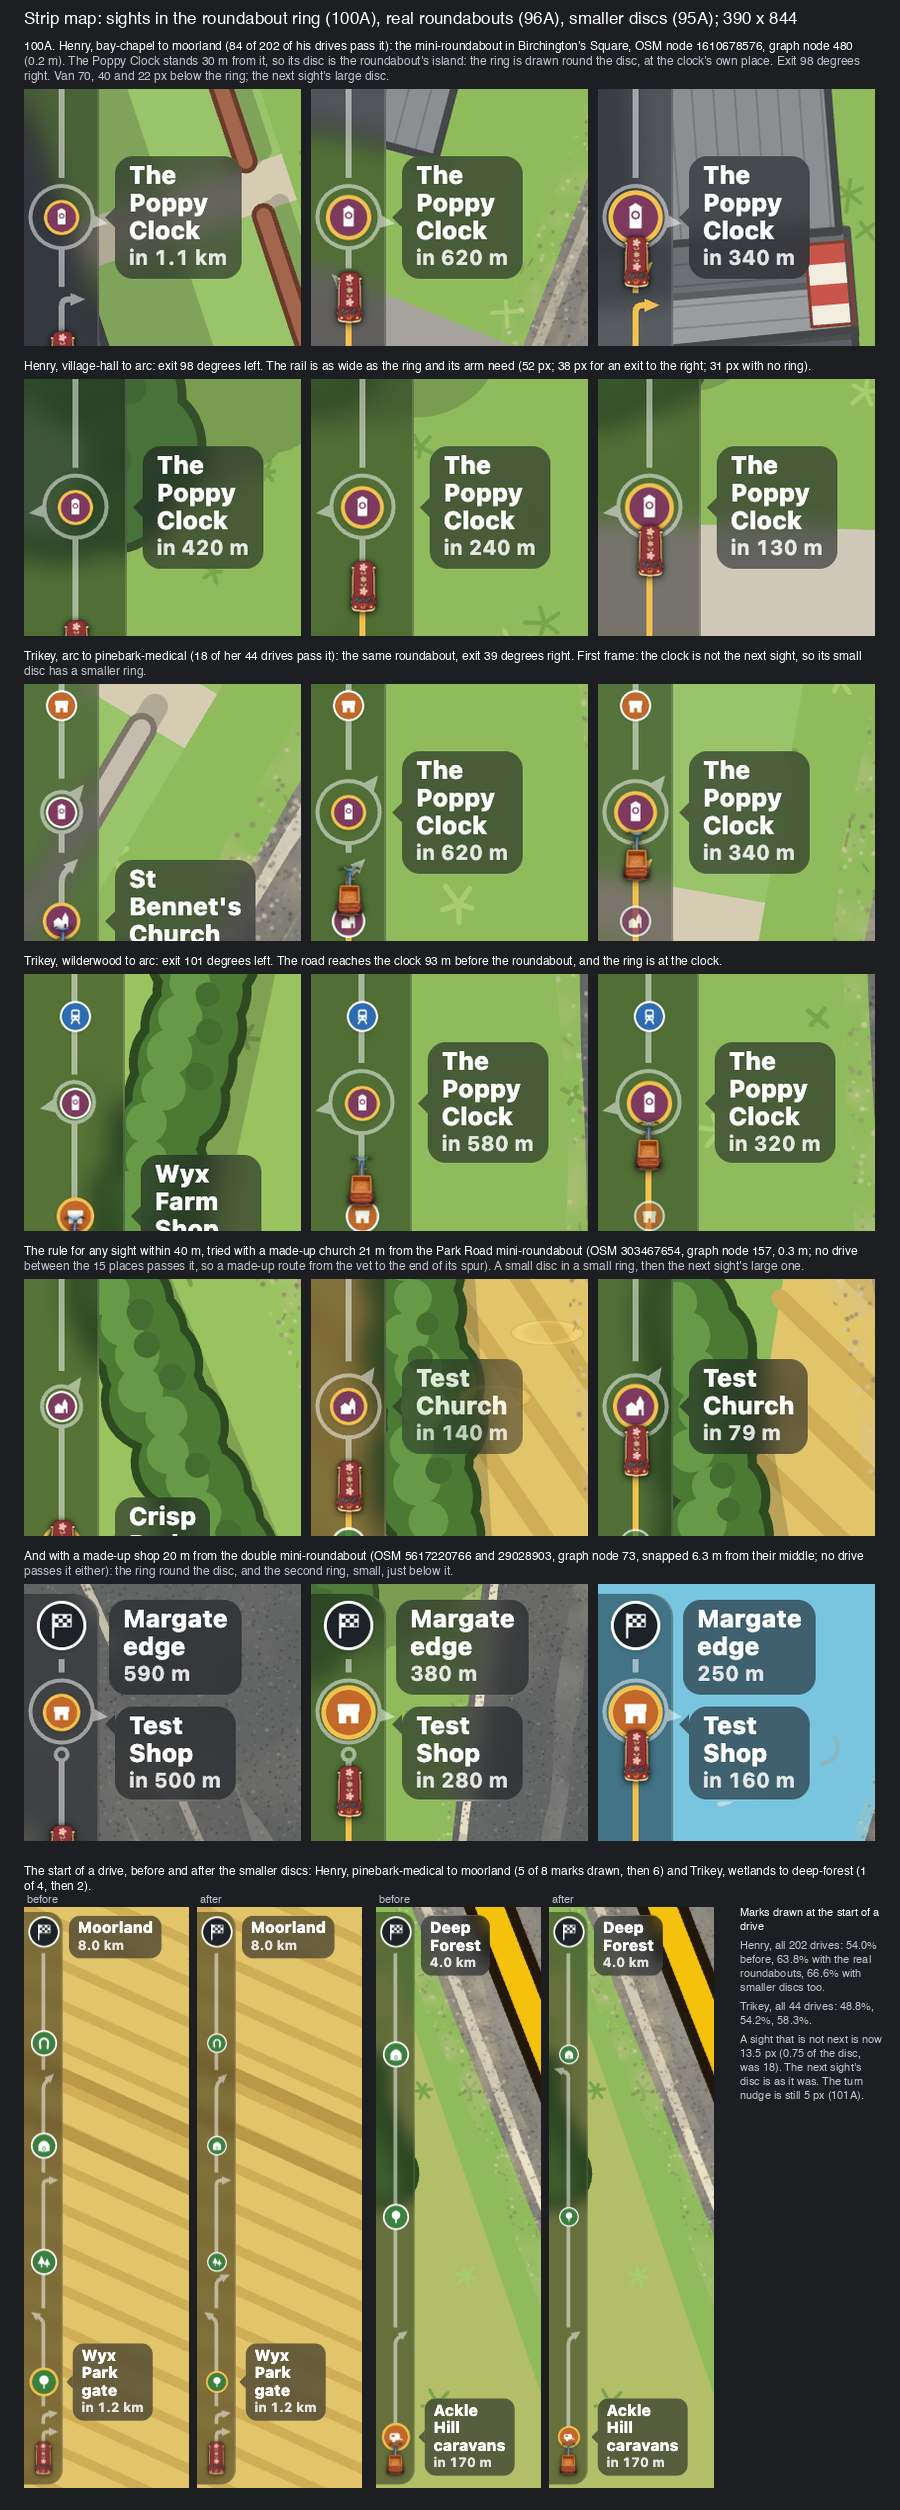
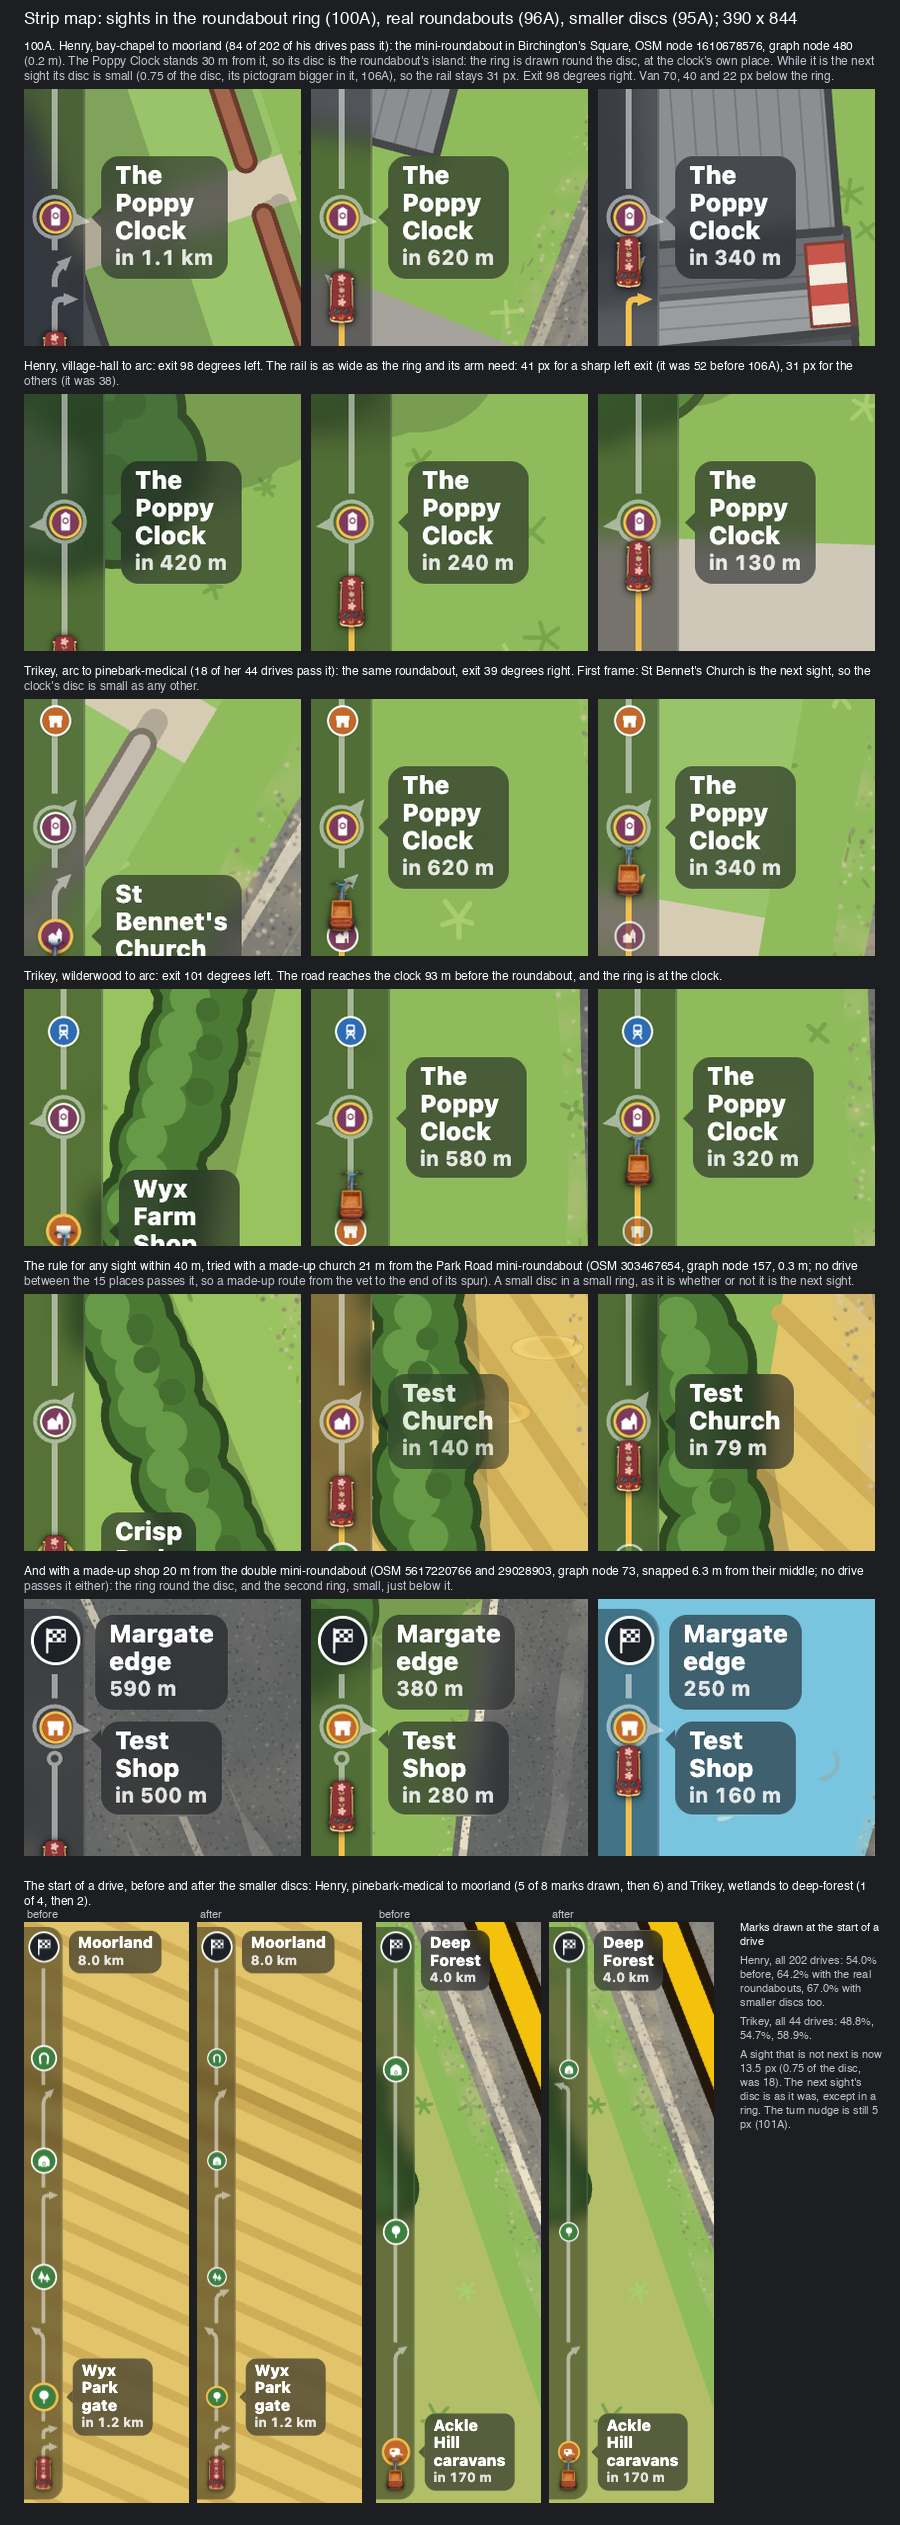
drive spike: the next sight's disc is small while it stands in a roundabout ring, so the rail stays 31 px for a right or straight-on exit and 41 px at most for a sharp left one (106A)
The disc is 0.75 of the disc with its gold ring, its pictogram 0.8 of the
disc so it still reads at 13.5 px, and returns to full size when it has no
ring drawn. Over every drive through The Square the rail is 31 px on 64 of
Henry's 84 and 9 of Trikey's 18, 34 px on 3, and 41 or 40 px on the 17 and 9
with a sharp left exit (it was 38 to 42 and 51 or 52 px). At the start of a
drive 67.0% of Henry's marks and 58.9% of Trikey's are drawn.

diff --git a/apps/game/public/admin/drive-spike/trip-strip.js b/apps/game/public/admin/drive-spike/trip-strip.js
@@ -92,6 +92,8 @@ const SNAP_M = 20;                     // a real roundabout belongs to the graph
 const SAME_SPOT_M = 1.5;               // graph nodes this near the snapped one are the same spot (her graph splits the A28's junctions by side)
 const CORNER_GAP_M = 20;               // junction nodes closer along the route than this are one corner
 const SMALL_DISC = 0.75;               // a sight that is not next is drawn at this share of the disc (95A); the next sight's is 1.25 times the disc
+const RING_GLYPH = 0.8;                // the pictogram's share of a disc in a ring (0.66 elsewhere): the disc is small, and the pictogram still reads
+const RING_NEXT = 0.75;                // the next sight's disc while it stands in a roundabout ring (106A), so the ring and its arm keep the rail narrow
 const DOUBLE_GAP = 1;                  // px (at a line width of 3) between the two rings of a double mini-roundabout
 // A mark may sit a few px off its place on the rail (less than the length of its own arrow) to clear a sight's disc or another mark.
 const NUDGES = [0, 1, -1, 2, -2, 3, -3, 4, -4, 5, -5];
@@ -127,6 +129,7 @@ const CSS = `
 #trip .hMark { transform: scale(var(--small, .75)); }
 #trip .hMark.passed { opacity: .45; transform: scale(.7); }
 #trip .hMark.next { transform: scale(1.25); box-shadow: 0 0 0 2px #f4c04e, 0 1px 4px rgba(0,0,0,.5); }
+#trip .hMark.next.inRing { transform: scale(var(--ringnext, .75)); }
 /* A tag sets one word to a line and the distance on a line of its own below,
    so it is as wide as its longest word and no wider. */
 #trip .hTag { position: absolute; width: max-content; line-height: 1.12; padding: 3px 7px 4px; border-radius: 9px;
@@ -508,12 +511,12 @@ function clearOfDiscs(T, j, y) {
 }
 
 /** The radius of a ring round sight m's disc as it is drawn now (the next
- *  sight's is 1.25 times the disc with a gold ring, a passed one 0.7, any other
- *  SMALL_DISC; the white ring is part of the disc), to the middle of the ring's
- *  stroke and a third of a line width clear of the disc. */
+ *  sight's, in a ring, is RING_NEXT times the disc with a gold ring, 106A, a
+ *  passed one 0.7, any other SMALL_DISC; the white ring is part of the disc), to
+ *  the middle of the ring's stroke and a line width clear of the disc. */
 function ringAround(T, m, state = m === T.railNext ? 'next' : m.state) {
   const G = T.geo, u = G.lw / 3, D = G.disc / 2;
-  const seen = state === 'next' ? (D + 2) * 1.25 : state === 'passed' ? (D + 1.5) * 0.7 : (D + 1.5) * SMALL_DISC;
+  const seen = state === 'next' ? (D + 2) * RING_NEXT : state === 'passed' ? (D + 1.5) * 0.7 : (D + 1.5) * SMALL_DISC;
   return seen + 2 * u;
 }
 
@@ -554,6 +557,7 @@ export function drawRail(T, np) {
   kept.sort((a, b) => b.at - a.at);
   for (const j of J) j.shown = false;
   for (const j of kept) j.shown = true;
+  for (const m of T.marks) if (m.ring) m.el.classList.toggle('inRing', !!m.ring.shown);   // a disc in a drawn ring (106A)
   let line = `M${f(cx)} ${f(G.len)}`, ring = '', head = '';
   for (const j of kept) {
     line += `L${f(cx)} ${f(j.at + j.foot)}${j.shape.line(cx, j.at)}M${f(cx)} ${f(j.at - j.up)}`;
@@ -581,7 +585,7 @@ export function setRoute(T, r) {
   T.marksEl.replaceChildren(...T.marks.map(m => {
     // A pair shares one disc on the strip, as it shares one post.
     m.el = el('div', { class: 'hMark', title: [m, m.also].filter(Boolean).map(b => b.name).join(' and ') },
-      [el('img', { alt: '', src: glyphURL(m.kind) })]);
+      [el('img', { alt: '', src: glyphURL(m.kind, m.ring ? RING_GLYPH : undefined) })]);
     m.state = '';
     return m.el;
   }));
@@ -616,10 +620,10 @@ export function layout(T, g) {
   const S = sizes(g.w, g.h);
   // The rail is also as wide as the biggest ring round a sight's disc needs,
   // with its arm if that leaves to the left (the next sight's disc is the
-  // biggest it will be).
+  // biggest it will be, RING_NEXT of the disc while it stands in a ring).
   for (const j of T.junctions) {
     if (!j.sight) continue;
-    const next = markShape(j, S.lw, (S.disc / 2 + 2) * 1.25 + 2 * S.lw / 3);
+    const next = markShape(j, S.lw, (S.disc / 2 + 2) * RING_NEXT + 2 * S.lw / 3);
     S.w = Math.max(S.w, Math.ceil(2 * (next.left + 2)));
   }
   // Flush with the road view's edge, below the chips, and below the
@@ -668,6 +672,7 @@ export function layout(T, g) {
   T.geo.discNext = S.disc / 2 + 3.5;
   T.geo.discSmall = (S.disc / 2 + 1.5) * SMALL_DISC + 2;
   T.el.style.setProperty('--small', SMALL_DISC);
+  T.el.style.setProperty('--ringnext', RING_NEXT);
   for (const j of T.junctions) {
     j.shape = markShape(j, S.lw);
     j.up = j.shape.up; j.dn = j.shape.dn; j.foot = j.shape.foot;
@@ -721,7 +726,7 @@ export function update(T, u) {
     const passed = u.s >= m.s;
     if (!passed && !next) next = m;
     const state = passed ? 'passed' : m === next ? 'next' : '';
-    if (state !== m.state) { m.el.className = 'hMark ' + state; m.state = state; }
+    if (state !== m.state) { m.el.className = 'hMark ' + state + (m.ring?.shown ? ' inRing' : ''); m.state = state; }
   }
   let np = 0;
   while (np < T.junctions.length && u.s >= T.junctions[np].s) np++;
@@ -792,15 +797,18 @@ const GLYPH_COLOUR = {
 };
 
 const GLYPH_CACHE = new Map();
-/** A kind's pictogram on its disc, as an image URL, painted once at 64 px. */
-function glyphURL(kind) {
-  if (!GLYPH_CACHE.has(kind)) {
+/** A kind's pictogram on its disc, as an image URL, painted once at 64 px.
+ *  share is how much of the disc the pictogram's box takes: 0.66, and 0.8 for a
+ *  disc that is small in a roundabout's ring (106A), so it still reads. */
+export function glyphURL(kind, share = 0.66) {
+  const key = kind + share;
+  if (!GLYPH_CACHE.has(key)) {
     const N = 64, k = N / 24;
     const fg = document.createElement('canvas');
     fg.width = fg.height = N;
     const f = fg.getContext('2d');
     // The pictogram in a 24 box, shrunk into the disc's middle.
-    f.translate(N / 2, N / 2); f.scale(k * 0.66, k * 0.66); f.translate(-12, -12);
+    f.translate(N / 2, N / 2); f.scale(k * share, k * share); f.translate(-12, -12);
     f.fillStyle = f.strokeStyle = '#fff';
     f.lineJoin = 'round'; f.lineCap = 'round'; f.lineWidth = 2.4;
     paintGlyph(f, kind);
@@ -810,9 +818,9 @@ function glyphURL(kind) {
     g.fillStyle = GLYPH_COLOUR[kind] ?? '#55606e';
     g.beginPath(); g.arc(N / 2, N / 2, N / 2, 0, Math.PI * 2); g.fill();
     g.drawImage(fg, 0, 0);
-    GLYPH_CACHE.set(kind, c.toDataURL());
+    GLYPH_CACHE.set(key, c.toDataURL());
   }
-  return GLYPH_CACHE.get(kind);
+  return GLYPH_CACHE.get(key);
 }
 
 /** Each kind as one flat white shape in a 24 x 24 box, bold enough to read

diff --git a/docs/driving-rebuild-2026-10-11.md b/docs/driving-rebuild-2026-10-11.md
@@ -398,19 +398,19 @@ Trikey's (172), as the 55% and 47% were (marks drawn over marks there are):
 | | Henry | Trikey |
 |---|---|---|
 | Before 95A and 96A (geometry detector, old discs) | 54.0% (460 of 852) | 48.8% (84 of 172) |
-| With the real roundabouts (96A, 100A), old discs | 63.8% (545 of 854) | 54.2% (104 of 192) |
-| And the smaller discs, 0.75 (95A) | 66.6% (569 of 854) | 58.3% (112 of 192) |
+| With the real roundabouts (96A, 100A, 106A), old discs | 64.2% (548 of 854) | 54.7% (105 of 192) |
+| And the smaller discs, 0.75 (95A) | 67.0% (572 of 854) | 58.9% (113 of 192) |
 
 Most of the rise is the real roundabouts, which are drawn on every route through
 them (84 and 18) where the geometry detector's were rarely seen. The turns alone,
-Henry: 454 of 824 (55.1%) before, 485 of 770 (63.0%) now; Trikey: 80 of 162
-(49.4%) before, 94 of 174 (54.0%) now. The discs were less of the cause than
+Henry: 454 of 824 (55.1%) before, 488 of 770 (63.4%) now; Trikey: 80 of 162
+(49.4%) before, 95 of 174 (54.6%) now. The discs were less of the cause than
 thought: a mark is 11 to 13 px tall with its arrow and gap, so it needs a clear
 band that tall beside each sight's disc, and a smaller disc only trims the
 disc's half of that. Taking a quarter off the discs wins three to four points
-(Henry 63.8% to 66.6%, Trikey 54.2% to 58.3%). What stays out is the 212 of
+(Henry 64.2% to 67.0%, Trikey 54.7% to 58.9%). What stays out is the 212 of
 Henry's 854 (25%) and 72 of Trikey's 192 (38%) with no clear band within 5 px of
-their place, and the 73 of Henry's and 8 of Trikey's that a nearer mark took.
+their place, and the 70 of Henry's and 7 of Trikey's that a nearer mark took.
 Drawing more would take a wider nudge for turns, which Marcus has left (101A).
 
 **Real roundabouts only (96A).** Marcus, 2026-10-14. The strip first found
@@ -482,10 +482,10 @@ near it keeps the 5 px nudge a turn has.
   the ring is at the clock). The roundabout then takes that sight's place on the
   rail, so the two are passed together. All 84 of Henry's drives and 18 of
   Trikey's through The Square have it.
-- The ring follows the disc as it is drawn: the next sight's large disc (1.25
-  times, gold ring) has a ring of radius 15.75 px at 390 x 844 (to the middle of
-  its line, 2 px thick, 1 px clear of the disc), a sight that is not next
-  9.9 px, a passed one 9.4. `markShape(j, lw, ringR)` draws it; the rail is drawn
+- The ring follows the disc as it is drawn, to the middle of its line (2 px
+  thick, 1 px clear of the disc), at 390 x 844: round the next sight's disc 10.25
+  px (the disc is small while it stands in a ring, 106A), round a sight that is
+  not next 9.9 px, round a passed one 9.4. `markShape(j, lw, ringR)` draws it; the rail is drawn
   again when the next sight changes. A double mini-roundabout with a sight has
   the big ring round the disc and its second ring, small, just below. A ring that
   would not fit on the rail (a sight within a ring's reach of either end), or
@@ -493,19 +493,28 @@ near it keeps the 5 px nudge a turn has.
 - Where no real sight is near the other two roundabouts, the rule was tried on
   a made-up church 21 m from the Park Road mini-roundabout and a made-up shop
   20 m from the double, on made-up routes through their nodes (`contact.jpg`).
-- *The cost is width.* The rail is as wide as the biggest ring (the next sight's)
-  and its arm need, so on a drive through a roundabout with a sight it is 38 to
-  42 px when the arm leaves to the right or ahead and 51 or 52 px when it leaves
-  sharply to the left (the arm of a 98 degree left exit reaches 24 px to the left
-  of the line), against 31 px with no ring. Of Henry's 84 drives through The
-  Square 17 are 51 or 52 px wide and 67 are 38 to 42; of Trikey's 18, 9 and 9. If
-  that is too wide, the way to narrow it is a smaller disc for the next sight
-  while it stands in a ring (estimated, not built: at the small disc's size the
-  rail stays 31 px for an arm to the right and about 41 px for a sharp left one).
+
+**The next sight's disc is small while it stands in a ring (106A).** Marcus,
+2026-10-14, after the width 100A cost. The next sight's large disc (1.25 times,
+gold ring) in a ring made the rail 38 to 42 px when the arm leaves to the right
+or ahead and 51 or 52 px for a sharp left exit (the arm of a 98 degree left exit
+reaches 24 px left of the line), against 31 px with no ring. So a sight that is
+the next one and stands in a ring that is drawn is drawn at 0.75 of the disc,
+the size of the sights that are not next, keeping its gold ring (`RING_NEXT`,
+the class `inRing`); the ring is round that. A next sight with no ring, or whose
+ring was left out for want of room, is large as before.
+- The pictogram of a disc in a ring is 0.8 of the disc where it was 0.66
+  (`RING_GLYPH`), so it reads at 13.5 px: all 29 kinds were drawn at 13.5 px at
+  three times the pixels and none touches the disc's edge.
+- The rail is 31 px for a right or straight-on exit and 41 px at most for a sharp
+  left one. Over every drive through The Square, Henry's 84: 31 px on 64, 34 px
+  on 3 (the 127 degree left exits), 41 px on 17 (the 98 degree left exits).
+  Trikey's 18: 31 px on 9 (exit 39 degrees right), 40 px on 9 (101 degrees
+  left). Before 106A they were 38 to 42 and 51 or 52 px.
 
 **The hidden turns stay hidden (101A).** Marcus, 2026-10-14: no change to the
-turn marks still hidden at the start of a drive (285 of Henry's 770 turns, 37%,
-and 80 of Trikey's 174, 46%, over every drive), and the 5 px nudge for a turn
+turn marks still hidden at the start of a drive (282 of Henry's 770 turns, 37%,
+and 79 of Trikey's 174, 45%, over every drive), and the 5 px nudge for a turn
 stays as it is.
 
 Screenshots of all of this, and the gold line and the lane chip, are in
